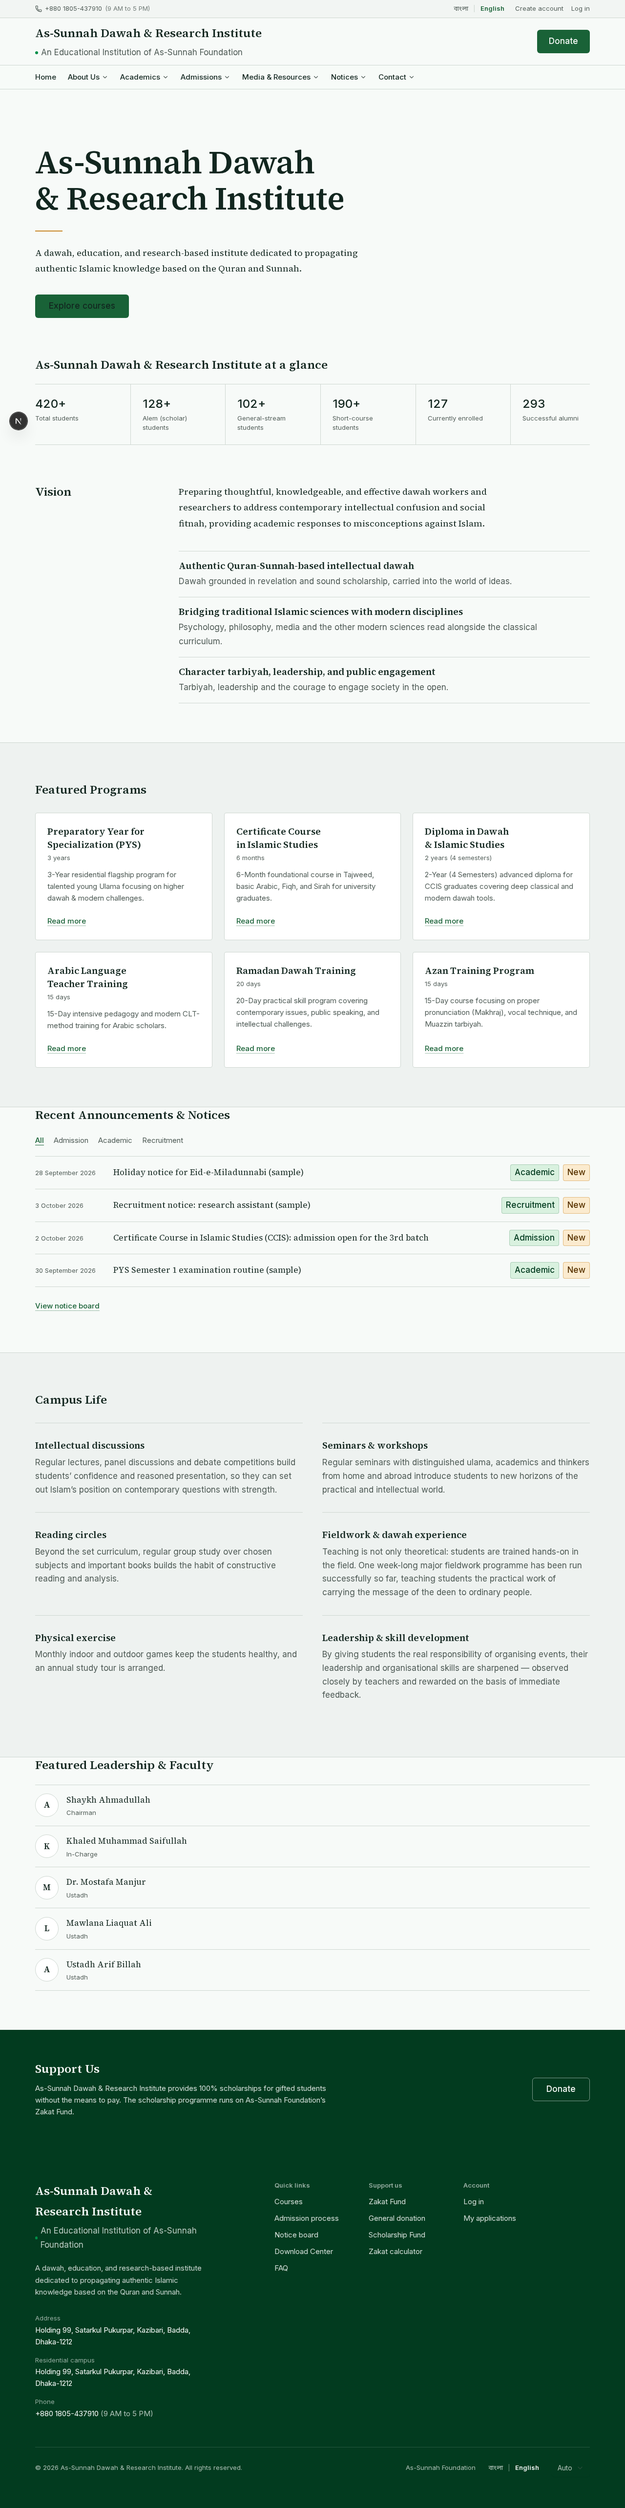
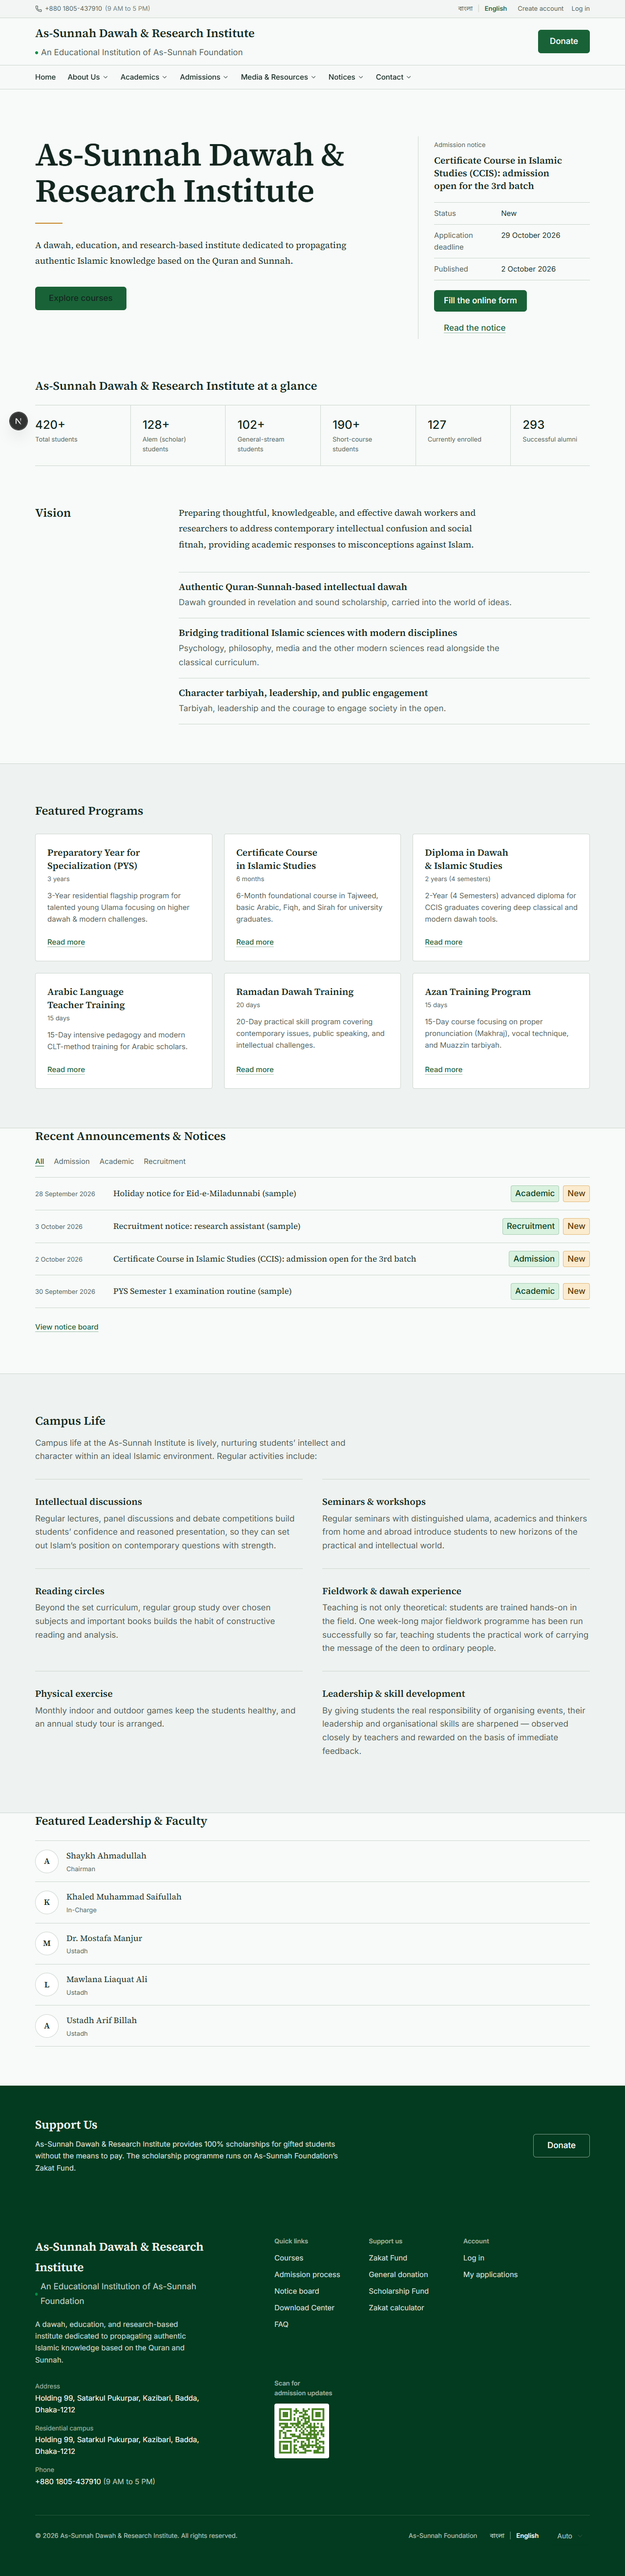
feat(home): hero as matn and hashiya with a live admission slip in the margin (REQ-HOME-01, REQ-NOT-04)
The hero's right half was empty on every screen wider than a phone. It is
now the first page of a kitab: the institute's name, the one gold
hairline, the statement and the actions in the matn; in the hashiya, the
newest open admission notice as a ruled slip (title, status as plain
text, deadline, published date, apply action), or — when no admission is
open — the office's admission note and the three standing admission pages
as ruled rows. The intro video, once uploaded, sits at the top of the
margin. Stacks under the actions on phones with a top rule.

Seed corrections recorded as GAP-C9: "দাওযাহ" → "দাওয়াহ" in the header line
and introduction; zero-padded durations "০৬ মাস" / "০২ বছর" → "৬ মাস" /
"২ বছর" in the course facts (prose kept verbatim); the short-course counter
label completed to "স্বল্পমেয়াদী কোর্সের শিক্ষার্থী".

Review screenshots refreshed under docs/review/home.

diff --git a/src/components/home/HeroSection.tsx b/src/components/home/HeroSection.tsx
@@ -3,10 +3,11 @@ import React from 'react'
 
 import type { Dictionary } from '@/i18n/getDictionary'
 import type { Locale } from '@/i18n/config'
-import type { Media } from '@/payload-types'
+import type { Media, Notice } from '@/payload-types'
 import { Home } from '@/payload-types'
 
 import { Button } from '@/components/ui/button'
+import { HeroMargin } from './HeroMargin'
 import { VideoPoster } from './VideoPoster'
 import { localizedHref } from '@/i18n/config'
 
@@ -16,21 +17,26 @@ type HeroBlock = Extract<
 >
 
 /**
- * The hero (REQ-HOME-01, docs/08 "Hero"): the headline is the hero and nothing competes with
- * it — the institute's name set large in serif, the one-line statement of purpose beneath, a
- * single gold hairline as the illumination, two actions, and optionally the intro video as a
- * poster that plays on click. No counter bar here; the impact figures come further down.
+ * The hero (REQ-HOME-01, docs/08 "Hero") laid out as the first page of a kitab: the matn on the
+ * left carries the institute's name set large in serif (the client's own choice of headline),
+ * the one gold hairline, the statement of purpose and two actions; the hashiya on the right
+ * carries what the margin always carried — the live note: the open admission notice, or the
+ * standing admission pages, and the intro video once there is one. No counter bar here.
  */
 export function HeroSection({
   block,
   locale,
   dict,
   prospectusUrl,
+  admissionNotice,
+  admissionNote,
 }: {
   block: HeroBlock
   locale: Locale
   dict: Dictionary
   prospectusUrl: string | null
+  admissionNotice: Notice | null
+  admissionNote: string | null
 }) {
   const poster =
     block.posterImage && typeof block.posterImage === 'object'
@@ -38,33 +44,45 @@ export function HeroSection({
       : null
 
   return (
-    <section className="container pt-16 pb-14 md:pt-28 md:pb-20">
-      <h1 className="text-display max-w-4xl">{block.heading}</h1>
-      <span className="illumination mt-7" aria-hidden />
-      {block.tagline && <p className="reading mt-7">{block.tagline}</p>}
-      <div className="mt-9 flex flex-wrap gap-3">
-        <Button asChild size="lg">
-          <Link href={localizedHref(locale, '/academics/courses')}>
-            {dict.home.exploreCourses}
-          </Link>
-        </Button>
-        {prospectusUrl && (
-          <Button asChild size="lg" variant="outline">
-            <a href={prospectusUrl} target="_blank" rel="noopener noreferrer">
-              {dict.home.prospectus}
-            </a>
-          </Button>
-        )}
-      </div>
-      {block.videoUrl && (
-        <div className="mt-12 max-w-2xl">
-          <VideoPoster
-            videoUrl={block.videoUrl}
-            poster={poster}
-            label={dict.home.introVideo}
-          />
+    <section className="container pt-14 pb-16 md:pt-24 md:pb-20">
+      <div className="grid gap-12 lg:grid-cols-12 lg:gap-x-10">
+        <div className="lg:col-span-8">
+          <h1 className="text-display max-w-[20ch]">{block.heading}</h1>
+          <span className="illumination mt-7" aria-hidden />
+          {block.tagline && <p className="reading mt-7">{block.tagline}</p>}
+          <div className="mt-9 flex flex-wrap gap-3">
+            <Button asChild size="lg">
+              <Link href={localizedHref(locale, '/academics/courses')}>
+                {dict.home.exploreCourses}
+              </Link>
+            </Button>
+            {prospectusUrl && (
+              <Button asChild size="lg" variant="outline">
+                <a href={prospectusUrl} target="_blank" rel="noopener noreferrer">
+                  {dict.home.prospectus}
+                </a>
+              </Button>
+            )}
+          </div>
         </div>
-      )}
+
+        <aside
+          className="border-t border-border pt-8 lg:col-span-4 lg:border-t-0 lg:border-l lg:pt-2 lg:pl-8"
+          aria-label={dict.home.marginLabel}
+        >
+          {block.videoUrl && (
+            <div className="mb-8">
+              <VideoPoster videoUrl={block.videoUrl} poster={poster} label={dict.home.introVideo} />
+            </div>
+          )}
+          <HeroMargin
+            notice={admissionNotice}
+            admissionNote={admissionNote}
+            locale={locale}
+            dict={dict}
+          />
+        </aside>
+      </div>
     </section>
   )
 }

diff --git a/src/components/home/HeroMargin.tsx b/src/components/home/HeroMargin.tsx
@@ -1,0 +1,118 @@
+import Link from 'next/link'
+import React from 'react'
+
+import type { Dictionary } from '@/i18n/getDictionary'
+import type { Locale } from '@/i18n/config'
+import type { Notice } from '@/payload-types'
+
+import { Button } from '@/components/ui/button'
+import { localizedHref } from '@/i18n/config'
+import { formatDate } from '@/utilities/formatNumber'
+import { noticeStatus } from '@/utilities/noticeStatus'
+
+/**
+ * The hero's margin note (hashiya): what a visitor who came to apply needs first. With an open
+ * admission notice it is a slip — title, status, deadline, the apply action. Without one it is
+ * the office's own admission note and the three standing admission pages as ruled rows. Plain
+ * text for the status (the gold "new" badge would be a second illumination beside the hairline).
+ */
+export function HeroMargin({
+  notice,
+  admissionNote,
+  locale,
+  dict,
+}: {
+  notice: Notice | null
+  admissionNote: string | null
+  locale: Locale
+  dict: Dictionary
+}) {
+  if (notice) {
+    const status = noticeStatus(notice)
+    const statusLabel =
+      status === 'new'
+        ? dict.notices.statusNew
+        : status === 'active'
+          ? dict.notices.statusActive
+          : status === 'closed'
+            ? dict.notices.statusClosed
+            : null
+    const noticeHref = localizedHref(locale, `/notices/${notice.slug}`)
+    const applyHref = status !== 'closed' ? notice.applyLink?.trim() || null : null
+    const applyIsExternal = applyHref ? /^https?:\/\//.test(applyHref) : false
+
+    return (
+      <div>
+        <p className="font-sans text-caption text-ink-muted">{dict.home.admissionSlipTitle}</p>
+        <h2 className="mt-2 font-serif text-h4 font-semibold leading-snug">
+          <Link
+            href={noticeHref}
+            className="text-foreground underline-offset-4 hover:text-primary hover:underline"
+          >
+            {notice.title}
+          </Link>
+        </h2>
+        <dl className="mt-5 divide-y divide-border border-y border-border font-sans text-small">
+          {statusLabel && <Fact term={dict.notices.statusLabel} detail={statusLabel} />}
+          {notice.activeUntil && (
+            <Fact term={dict.home.deadline} detail={formatDate(notice.activeUntil, locale)} />
+          )}
+          {notice.publishedAt && (
+            <Fact term={dict.notices.publishedLabel} detail={formatDate(notice.publishedAt, locale)} />
+          )}
+        </dl>
+        <div className="mt-5 flex flex-wrap items-center gap-x-5 gap-y-3">
+          {applyHref &&
+            (applyIsExternal ? (
+              <Button asChild>
+                <a href={applyHref} target="_blank" rel="noopener noreferrer">
+                  {dict.notices.applyOnline}
+                </a>
+              </Button>
+            ) : (
+              <Button asChild>
+                <Link href={localizedHref(locale, applyHref)}>{dict.notices.applyOnline}</Link>
+              </Button>
+            ))}
+          <Button asChild variant="link">
+            <Link href={noticeHref}>{dict.home.readNotice}</Link>
+          </Button>
+        </div>
+      </div>
+    )
+  }
+
+  const links = [
+    { href: '/admissions', label: dict.admissions.processTitle },
+    { href: '/admissions/scholarships', label: dict.admissions.scholarshipsTitle },
+    { href: '/notices?category=admission', label: dict.home.allAdmissionNotices },
+  ]
+
+  return (
+    <div>
+      <p className="font-sans text-caption text-ink-muted">{dict.home.marginLabel}</p>
+      {admissionNote && <p className="mt-2 font-sans text-small text-ink-muted">{admissionNote}</p>}
+      <ul className="mt-5 divide-y divide-border border-y border-border font-sans">
+        {links.map((link) => (
+          <li key={link.href}>
+            <Link
+              href={localizedHref(locale, link.href)}
+              className="block py-3 text-small font-medium text-foreground hover:text-primary"
+            >
+              {link.label}
+            </Link>
+          </li>
+        ))}
+      </ul>
+    </div>
+  )
+}
+
+function Fact({ term, detail }: { term: string; detail: string }) {
+  return (
+    <div className="grid grid-cols-[minmax(7rem,2fr)_3fr] gap-x-4 py-2.5">
+      <dt className="text-ink-muted">{term}</dt>
+      <dd className="text-foreground">{detail}</dd>
+    </div>
+  )
+}

diff --git a/src/components/home/HomeSections.tsx b/src/components/home/HomeSections.tsx
@@ -9,10 +9,11 @@ import { ProgrammesSection } from './ProgrammesSection'
 import { SupportSection } from './SupportSection'
 import { VisionSection } from './VisionSection'
 import type { Dictionary } from '@/i18n/getDictionary'
-import type { Course, Home, Person } from '@/payload-types'
+import type { Course, Home, Notice, Person } from '@/payload-types'
 import type { Locale } from '@/i18n/config'
 
 import { getCachedGlobal } from '@/utilities/getGlobals'
+import { noticeStatus } from '@/utilities/noticeStatus'
 import { getPayload } from 'payload'
 import configPromise from '@payload-config'
 
@@ -35,7 +36,7 @@ export async function HomeSections({
 
   // Shared data for the sections that need it
   const payload = await getPayload({ config: configPromise })
-  const [settings, stats, featuredCourses, featuredPeople] = await Promise.all([
+  const [settings, stats, featuredCourses, featuredPeople, admissionNotices] = await Promise.all([
     getCachedGlobal('site-settings', 1, locale)(),
     getCachedGlobal('impact-stats', 0, locale)(),
     payload.find({
@@ -56,7 +57,20 @@ export async function HomeSections({
       sort: 'order',
       where: { featuredOnHome: { equals: true } },
     }),
+    // The hero's margin: the newest admission notices; the first one not yet closed is shown.
+    payload.find({
+      collection: 'notices',
+      locale,
+      depth: 0,
+      limit: 3,
+      pagination: false,
+      sort: ['-pinned', '-publishedAt'],
+      where: { category: { equals: 'admission' } },
+    }),
   ])
+
+  const admissionNotice =
+    (admissionNotices.docs as Notice[]).find((notice) => noticeStatus(notice) !== 'closed') ?? null
 
   const features = settings.features ?? {}
   const prospectus =
@@ -80,6 +94,8 @@ export async function HomeSections({
                 locale={locale}
                 dict={dict}
                 prospectusUrl={prospectusUrl}
+                admissionNotice={admissionNotice}
+                admissionNote={settings.admissionNote ?? null}
               />
             )
           case 'impactStats':

diff --git a/src/endpoints/seed/site-settings.ts b/src/endpoints/seed/site-settings.ts
@@ -54,7 +54,7 @@ const siteSettingsSeed = {
     name: 'আস-সুন্নাহ দাওয়াহ অ্যান্ড রিসার্চ ইনস্টিটিউট',
     shortName: 'দাওয়াহ অ্যান্ড রিসার্চ ইনস্টিটিউট',
     tagline:
-      'আস-সুন্নাহ দাওযাহ অ্যান্ড রিসার্চ ইনস্টিটিউট একটি দাওয়াহ, শিক্ষা ও গবেষণাভিত্তিক প্রতিষ্ঠান। এই ইনস্টিটিউট কুরআন-সুন্নাহভিত্তিক দাওয়াহ, গবেষণা ও প্রশিক্ষণ কার্যক্রম পরিচালনা করে, যার মূল লক্ষ্য হলো ইসলামের বিশুদ্ধ আকীদা এবং সঠিক জ্ঞান প্রচার ও প্রসার করা।',
+      'আস-সুন্নাহ দাওয়াহ অ্যান্ড রিসার্চ ইনস্টিটিউট একটি দাওয়াহ, শিক্ষা ও গবেষণাভিত্তিক প্রতিষ্ঠান। এই ইনস্টিটিউট কুরআন-সুন্নাহভিত্তিক দাওয়াহ, গবেষণা ও প্রশিক্ষণ কার্যক্রম পরিচালনা করে, যার মূল লক্ষ্য হলো ইসলামের বিশুদ্ধ আকীদা এবং সঠিক জ্ঞান প্রচার ও প্রসার করা।',
     parentLine: 'আস-সুন্নাহ ফাউন্ডেশনের একটি শিক্ষাপ্রতিষ্ঠান',
     parentUrl: 'https://assunnahfoundation.org/',
     phones: [{ number: '+880 1805-437910', note: 'সকাল ৯টা থেকে বিকাল ৫টা' }],

diff --git a/src/endpoints/seed/home.ts b/src/endpoints/seed/home.ts
@@ -23,7 +23,7 @@ export const homeSeed = {
         enabled: true,
         heading: 'আস-সুন্নাহ দাওয়াহ অ্যান্ড রিসার্চ ইনস্টিটিউট',
         tagline:
-          'আস-সুন্নাহ দাওযাহ অ্যান্ড রিসার্চ ইনস্টিটিউট একটি দাওয়াহ, শিক্ষা ও গবেষণাভিত্তিক প্রতিষ্ঠান। এই ইনস্টিটিউট কুরআন-সুন্নাহভিত্তিক দাওয়াহ, গবেষণা ও প্রশিক্ষণ কার্যক্রম পরিচালনা করে, যার মূল লক্ষ্য হলো ইসলামের বিশুদ্ধ আকীদা এবং সঠিক জ্ঞান প্রচার ও প্রসার করা।',
+          'আস-সুন্নাহ দাওয়াহ অ্যান্ড রিসার্চ ইনস্টিটিউট একটি দাওয়াহ, শিক্ষা ও গবেষণাভিত্তিক প্রতিষ্ঠান। এই ইনস্টিটিউট কুরআন-সুন্নাহভিত্তিক দাওয়াহ, গবেষণা ও প্রশিক্ষণ কার্যক্রম পরিচালনা করে, যার মূল লক্ষ্য হলো ইসলামের বিশুদ্ধ আকীদা এবং সঠিক জ্ঞান প্রচার ও প্রসার করা।',
       },
       {
         blockType: 'impactStats',

diff --git a/src/endpoints/seed/courses/ccis.ts b/src/endpoints/seed/courses/ccis.ts
@@ -14,7 +14,7 @@ export const certificateCourse: SeedCourse = {
       'শিক্ষার্থীদের মাঝে সুন্নাহর বাস্তবায়ন, চারিত্রিক তারবিয়াহ এবং দাওয়াহর প্রায়োগিক দক্ষতা তৈরি করা।',
       'শিক্ষার্থীদের আত্মোন্নয়ন সাধন ও দক্ষ দাঈ হিসেবে গড়ে তোলার লক্ষ্যে পরবর্তী উচ্চতর দুই বছর মেয়াদী কোর্সের উপযোগী করে তোলা।',
     ],
-    formatDuration: '০৬ মাস',
+    formatDuration: '৬ মাস',
     eligibility: [
       'স্বীকৃত কলেজ-বিশ্ববিদ্যালয় থেকে ন্যূনতম স্নাতক সম্পন্ন করা।',
       'সিজিপিএ ২.৫ এর উপরে থাকা।',

diff --git a/src/endpoints/seed/courses/diploma.ts b/src/endpoints/seed/courses/diploma.ts
@@ -14,7 +14,7 @@ export const diplomaCourse: SeedCourse = {
       'সমকালীন প্রেক্ষাপট ও দাওয়াহর আধুনিক কলাকৌশল শিক্ষার মাধ্যমে তাদের দক্ষ দাঈ ও আদর্শ মানুষ হিসেবে গড়ে তোলা।',
       'সমাজ সংস্কারে বুদ্ধিবৃত্তিক ও কার্যকর ভূমিকা পালনের যোগ্যতা তৈরি করা।',
     ],
-    formatDuration: '০২ বছর (৪টি সেমিস্টার)',
+    formatDuration: '২ বছর (৪টি সেমিস্টার)',
     eligibility: ['৬ মাস মেয়াদী সার্টিফিকেট কোর্সে সফলভাবে উত্তীর্ণ শিক্ষার্থী।'],
     semesters: [
       {

diff --git a/src/i18n/dictionaries/bn.ts b/src/i18n/dictionaries/bn.ts
@@ -32,6 +32,11 @@ const bn = {
       'ইনস্টিটিউটের ওয়েবসাইটের এই অংশটি শিগগিরই প্রকাশ হবে। এখন কোর্স ও যোগাযোগের তথ্য নিচে পাওয়া যাবে।',
     introVideo: 'পরিচিতিমূলক ভিডিও',
     viewNoticeBoard: 'নোটিশ বোর্ড দেখুন',
+    marginLabel: 'ভর্তি সংক্রান্ত',
+    admissionSlipTitle: 'ভর্তি বিজ্ঞপ্তি',
+    deadline: 'আবেদনের শেষ তারিখ',
+    readNotice: 'বিজ্ঞপ্তি পড়ুন',
+    allAdmissionNotices: 'সব ভর্তি বিজ্ঞপ্তি',
   },
   people: {
     leadershipTitle: 'নেতৃত্ব ও প্রশাসন',

diff --git a/src/endpoints/seed/impact-stats.ts b/src/endpoints/seed/impact-stats.ts
@@ -7,7 +7,7 @@ export const impactStatsSeed = {
       { label: 'মোট শিক্ষার্থী', value: 420, suffix: '+' },
       { label: 'আলেম শিক্ষার্থী', value: 128, suffix: '+' },
       { label: 'জেনারেল শিক্ষার্থী', value: 102, suffix: '+' },
-      { label: 'স্বল্পমেয়াদী কোর্সে', value: 190, suffix: '+' },
+      { label: 'স্বল্পমেয়াদী কোর্সের শিক্ষার্থী', value: 190, suffix: '+' },
       { label: 'বর্তমানে অধ্যয়নরত', value: 127, suffix: '' },
       { label: 'সফলভাবে উত্তীর্ণ (অ্যালামনাই)', value: 293, suffix: '' },
     ],

diff --git a/src/i18n/dictionaries/en.ts b/src/i18n/dictionaries/en.ts
@@ -29,6 +29,11 @@ const en: Dictionary = {
       'This part of the institute website will be published soon. Course and contact details are available below.',
     introVideo: 'Introductory video',
     viewNoticeBoard: 'View notice board',
+    marginLabel: 'Admissions',
+    admissionSlipTitle: 'Admission notice',
+    deadline: 'Application deadline',
+    readNotice: 'Read the notice',
+    allAdmissionNotices: 'All admission notices',
   },
   people: {
     leadershipTitle: 'Leadership & Administration',

diff --git a/src/payload-types.ts b/src/payload-types.ts
@@ -312,6 +312,7 @@ export interface Media {
     };
     [k: string]: unknown;
   } | null;
+  _objectKey?: string | null;
   folder?: (number | null) | FolderInterface;
   updatedAt: string;
   createdAt: string;
@@ -1900,6 +1901,7 @@ export interface NoticesSelect<T extends boolean = true> {
 export interface MediaSelect<T extends boolean = true> {
   alt?: T;
   caption?: T;
+  _objectKey?: T;
   folder?: T;
   updatedAt?: T;
   createdAt?: T;

diff --git a/docs/04-gap-register.md b/docs/04-gap-register.md
@@ -14,6 +14,7 @@ What the client has not told us, whether it blocks engineering, and the default 
 | GAP-C6 | Media | No intro video, prospectus PDF, campus photos | content | No | Hero supports video URL or poster image; prospectus button hidden until file uploaded | Institute office |
 | GAP-C7 | Content | Email address of the institute not given; only phone | content | No | Placeholder in site-settings | Institute office |
 | GAP-C8 | Stats | Alumni batch programmes (PGDID) do not map onto the current course catalogue; are they the Diploma's former batches? | content | No | `alumni-batches` stores programme names as free text, verbatim from the document; a relation to courses can be added when the office maps batches to programmes | Institute office |
+| GAP-C9 | Content | Source-text slips carried into the seed: “দাওযাহ” (য for য়) in the header line and the introduction of the Bangla document; “০৬ মাস” / “০২ বছর” zero-padded durations for CCIS and the Diploma (kept verbatim inside running prose); the short-course counter label was an incomplete translation of “Short-Term Course Students” | content | No | Seed corrected to “দাওয়াহ”, “৬ মাস” / “২ বছর”, “স্বল্পমেয়াদী কোর্সের শিক্ষার্থী”; the office confirms the spelling of the institute's own name | Institute office |
 | GAP-D1 | Admissions | Exact application form fields per course; documents required; any fee | data | No | Common fields (name, father, DOB, NID/birth cert, phone, email, address, district, education rows, photo, certificates) + per-intake optional toggles | Admissions |
 | GAP-D2 | Sponsorship | Progress reports need results and attendance per student — no system records these today | data | No for phase 1; Yes for REQ-DON-08 | Build `students` + `academic-records` with manual entry form; reports generated from them; if left empty, send narrative-only update | In-Charge |
 | GAP-D3 | Sponsorship | Which students may be listed, what cost per student/month, consent | decision | No | Profiles invisible until `visible=true`; cost fields editable | In-Charge |
